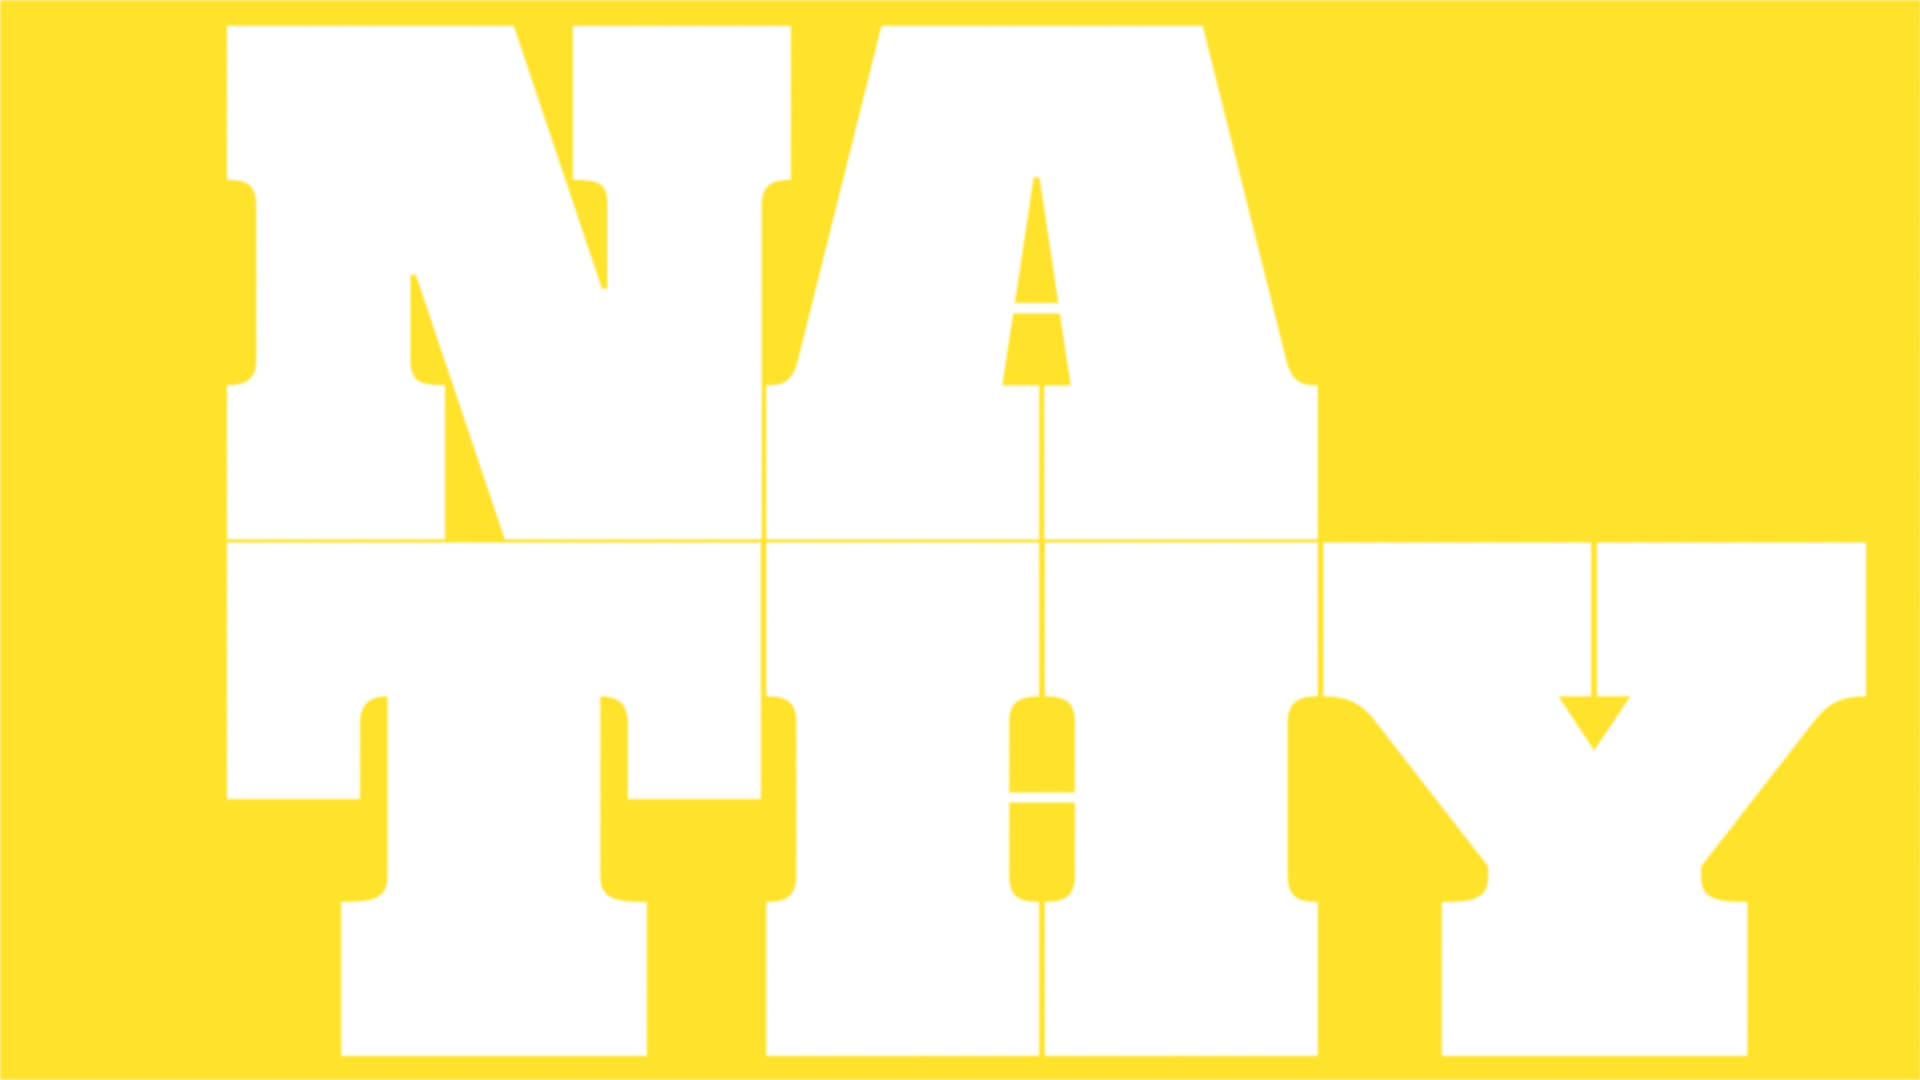
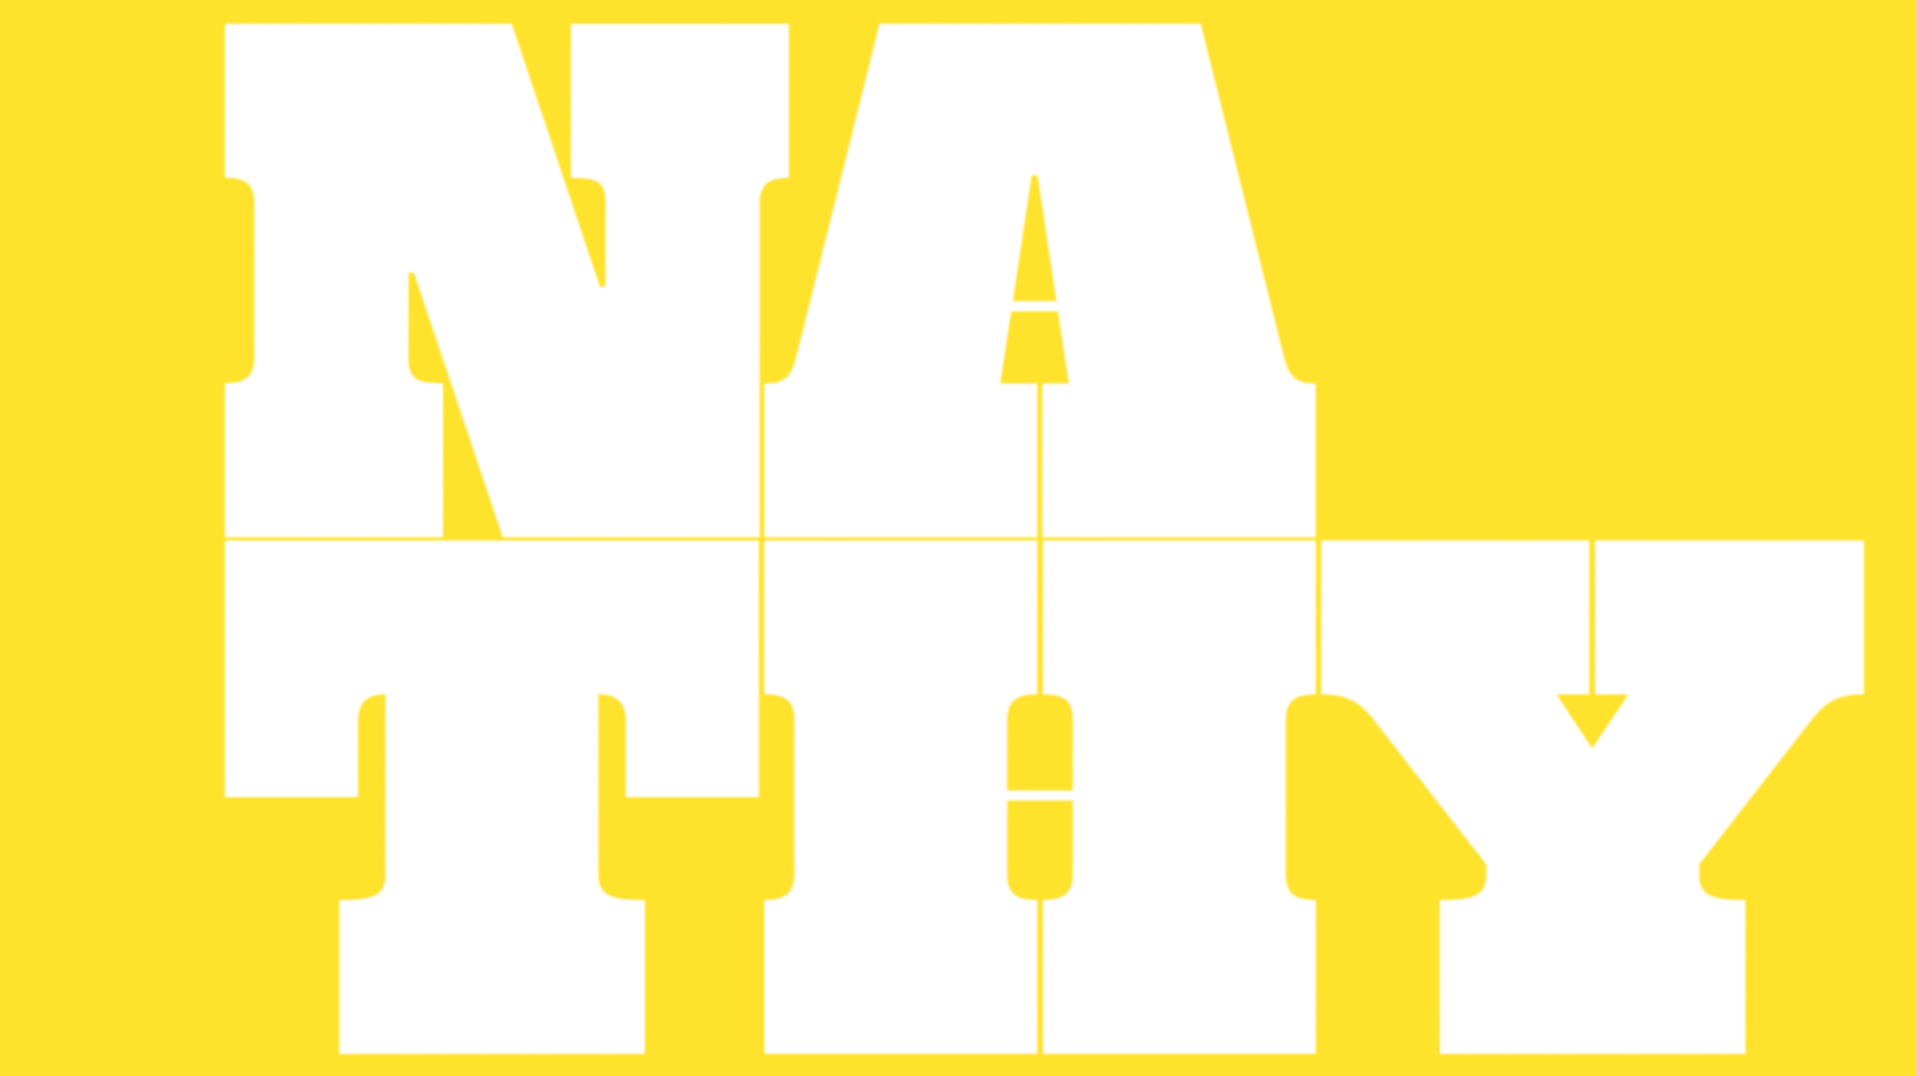
Cut borders of background hero image and small CSS fixes

diff --git a/css/style.css b/css/style.css
@@ -2,7 +2,7 @@
    TOKENS
    ============================================================ */
 :root {
-  --yellow:   #F5E800;
+  --yellow:   #FFE22B;
   --pink:     #FF2AA0;
   --coral:    #F05A5A;
   --blue:     #4169E1;
@@ -133,7 +133,7 @@ button { font-family: inherit; }
   color: var(--yellow);
   border-radius: 2px;
 }
-.social-icon svg { width: 100%; height: 100%; }
+.social-icon svg { width: 100%; height: 100%; vertical-align: top; }
 
 /* mobile hamburger (hidden on desktop) */
 .hamburger {